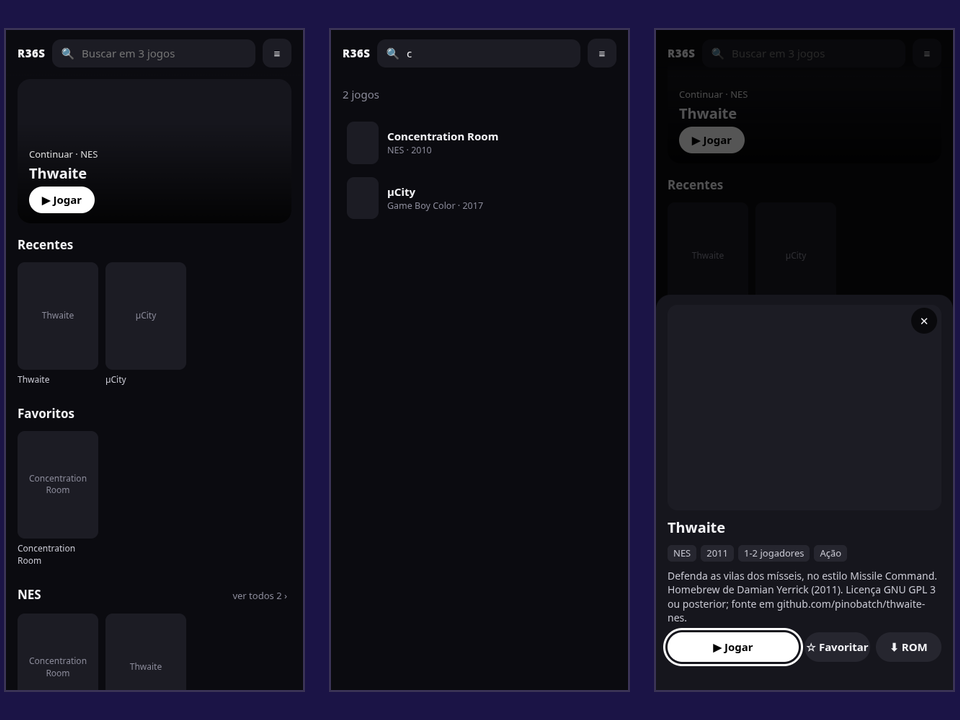
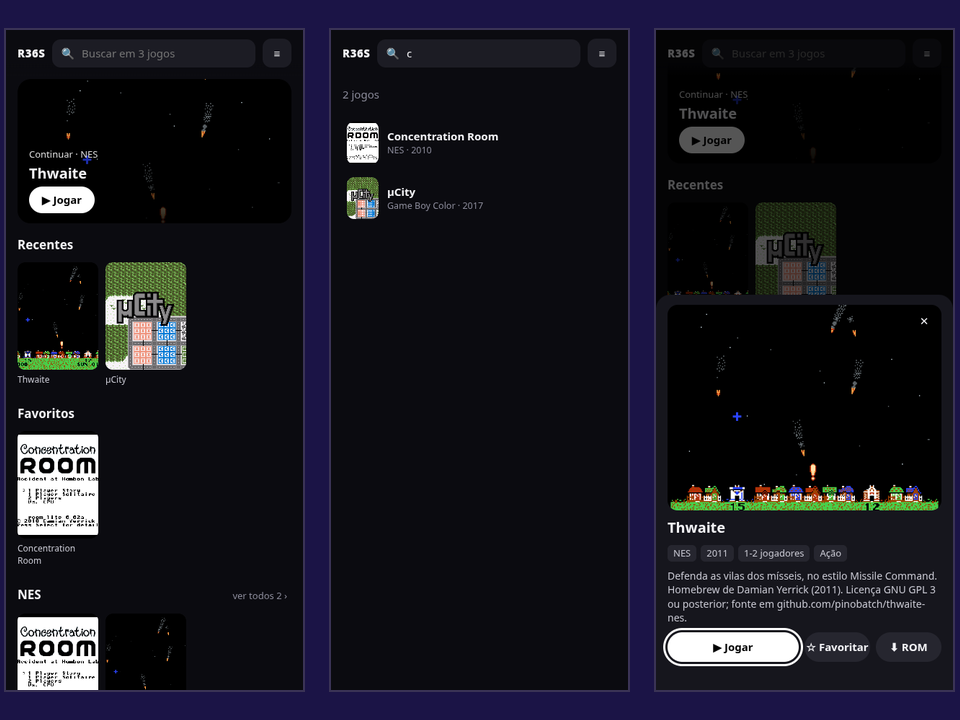
demo: prints dos próprios jogos homebrew; prints da página inicial com capas

diff --git a/web/site/demo/LICENSES.md b/web/site/demo/LICENSES.md
@@ -13,6 +13,10 @@ As ROMs são as dos releases oficiais, sem modificação. Para os jogos GPL, o c
 repositórios acima (oferta de fonte da GPL 3, seção 6d: a fonte fica acessível no mesmo lugar de onde vem o binário,
 por link).
 
+As imagens em `fs/roms/<sistema>/images/` (capa e print de cada jogo, `<nome>-image.png`) são capturas de tela dos
+próprios jogos rodando no player do site (Thwaite em jogo, telas de título do Concentration Room e do µCity), feitas em
+2026-10-19; valem as mesmas licenças dos jogos acima (no µCity, os gráficos são CC BY-SA 4.0, autor Antonio Niño Díaz).
+
 Vaga para mais jogos: **sem candidato confirmado**. Tobu Tobu Girl (MIT + CC BY 4.0) e Super Tilt Bro. (WTFPL) têm
 licença livre, mas a ROM só sai pelo itch.io (sem download direto conferível daqui) — ficam de fora até alguém baixar
 e conferir.
